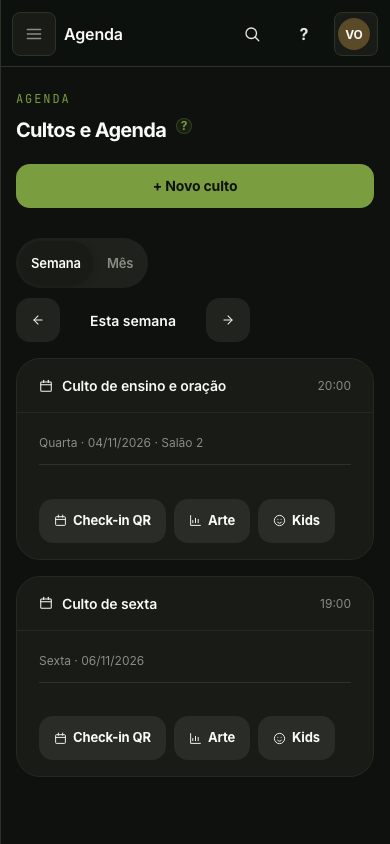
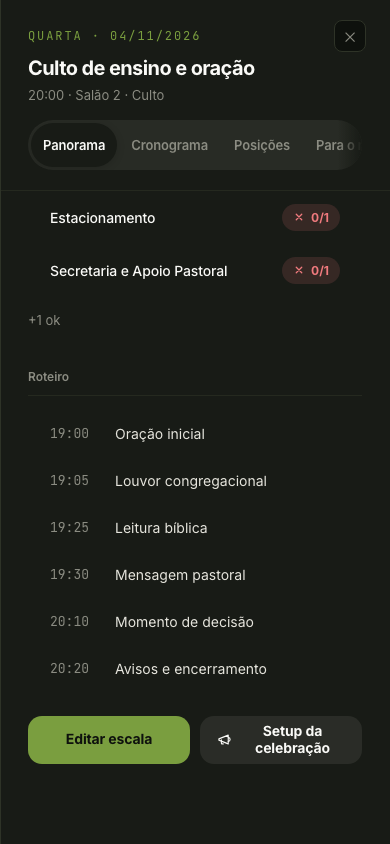
fix(E2): completa branch com fotos, Panorama, CSS e mask-image no Segmentado
- Adiciona fotos e2-*-topo/fim (1366, 820, 390) e atualiza existentes
- Panorama.tsx e panorama.css incluídos no versionamento
- .gitignore atualizado para excluir scripts temporários de captura
- Segmentado rolável usa mask-image em vez de ::after absoluto; esfumado
  não cobre mais o texto da última aba ao chegar no fim da rolagem
- Densidade do Panorama em 390 corrigida: motivo descreve a lista de
  12 times, não a aba 'Para o membro'

diff --git a/app/service/painel/telas/Panorama.tsx b/app/service/painel/telas/Panorama.tsx
@@ -37,73 +37,53 @@ export function Panorama({
 
   return (
     <>
-      <DrawerSection title={ct("Cobertura por time")}>
+      <DrawerSection title={ct("Cobertura")}>
         {incompletos.length === 0 && completosCount === 0 ? (
-          <p className="mini-sub">Nenhum time cadastrado para este {ct("culto")}.</p>
+          <p className="mini-sub">Sem times neste {ct("culto")}.</p>
         ) : (
-          <ul className="panorama-cob" aria-label={ct("Cobertura por time")}>
-            {incompletos.map((t) => {
-              const falta = t.total - t.preenchidas;
-              const rotulo = `${t.time}: ${t.preenchidas} de ${t.total} vagas preenchidas. Abrir as ${falta} vagas em aberto.`;
-              return (
-                <li key={t.timeId}>
-                  <Acao
-                    className="panorama-cob-linha mini-row"
-                    aria-label={rotulo}
-                    onClick={() => onAbrirTime(t.timeId)}
-                  >
-                    <div className="mini-main">
-                      <div className="mini-title">{t.time}</div>
-                    </div>
-                    <Selo tom="cuidado" tamanho="lista">
-                      {t.preenchidas}/{t.total}
-                    </Selo>
-                  </Acao>
-                </li>
-              );
-            })}
-            {completosCount > 0 && (
-              <li>
-                <Linha>
+          <ul className="panorama-cob" aria-label={ct("Cobertura")}>
+            {incompletos.map((t) => (
+              <li key={t.timeId}>
+                <Acao
+                  className="panorama-cob-linha mini-row"
+                  aria-label={`${t.time}: ${t.preenchidas}/${t.total}`}
+                  onClick={() => onAbrirTime(t.timeId)}
+                >
                   <div className="mini-main">
-                    <div className="mini-sub panorama-cob-ok">
-                      {completosCount} {completosCount === 1 ? "time completo" : "times completos"}
-                    </div>
+                    <div className="mini-title">{t.time}</div>
                   </div>
-                </Linha>
+                  <Selo tom="cuidado" tamanho="lista">
+                    {t.preenchidas}/{t.total}
+                  </Selo>
+                </Acao>
+              </li>
+            ))}
+            {completosCount > 0 && (
+              <li className="panorama-cob-ok-li">
+                <div className="mini-sub panorama-cob-ok">
+                  +{completosCount} {completosCount === 1 ? "ok" : "ok"}
+                </div>
               </li>
             )}
           </ul>
         )}
       </DrawerSection>
 
-      <DrawerSection title={ct("Roteiro do {culto}")}>
+      <DrawerSection title={ct("Roteiro")}>
         {schedule.length === 0 ? (
-          <p className="mini-sub">Sem cronograma ainda.</p>
+          <p className="mini-sub">Sem etapas.</p>
         ) : (
-          <ul className="panorama-crono" aria-label={ct("Roteiro do {culto}")}>
-            {schedule.map((step) => {
-              const timeNome = ministryName(step.ministry_id ?? null);
-              return (
-                <li key={step.id}>
-                  <Linha>
-                    <div className="mini-main">
-                      <div className="mini-title">
-                        <span className="panorama-crono-hora">{step.time ?? "--:--"}</span>
-                        <span className="panorama-crono-item">{step.item || ct("Etapa sem nome")}</span>
-                      </div>
-                      <div className="mini-sub">
-                        {joinDot(
-                          step.duration_min ? `${step.duration_min} min` : null,
-                          timeNome,
-                          step.notes ?? null,
-                        )}
-                      </div>
-                    </div>
-                  </Linha>
-                </li>
-              );
-            })}
+          <ul className="panorama-crono" aria-label={ct("Roteiro")}>
+            {schedule.map((step) => (
+              <li key={step.id}>
+                <Linha>
+                  <span className="panorama-crono-hora">{step.time ?? "--:--"}</span>
+                  <div className="mini-main">
+                    <div className="panorama-crono-item">{step.item || "—"}</div>
+                  </div>
+                </Linha>
+              </li>
+            ))}
           </ul>
         )}
       </DrawerSection>

diff --git a/evolucoes/service_app/service-app.css b/evolucoes/service_app/service-app.css
@@ -244,9 +244,8 @@ em { font-style:italic; }
 .seg { display:inline-flex; max-width:100%; overflow-x:auto; scrollbar-width:none; background:var(--graphite); border:0.5px solid var(--border-2); border-radius:calc(var(--r-ctl) + 3px); padding:3px; gap:2px; }
 .seg::-webkit-scrollbar { display:none; }
 /* Fade na ponta direita só quando rolavel (drawer do culto) */
-.seg-rolavel { position:relative; }
-.seg-rolavel::after { content:""; position:absolute; top:0; bottom:0; right:0; width:24px; background:linear-gradient(to left, var(--graphite), transparent); pointer-events:none; z-index:1; opacity:var(--seg-fade-opacity, 1); transition:opacity .2s ease; }
-.seg-rolavel.seg-no-fade::after { opacity:0; }
+.seg-rolavel { position:relative; -webkit-mask-image:linear-gradient(to right, black calc(100% - 24px), transparent); mask-image:linear-gradient(to right, black calc(100% - 24px), transparent); transition:-webkit-mask-image .2s ease, mask-image .2s ease; }
+.seg-rolavel.seg-no-fade { -webkit-mask-image:none; mask-image:none; }
 /* Drawer do culto: afasta o HelpDot dos números da cobertura (E2) */
 .drawer-body-event .help-dot-wrap { margin-left: 12px; }
 .drawer-body-event .panorama-cob-linha { padding-right: 8px; }

diff --git a/app/service/modules/cultos/manifest.ts b/app/service/modules/cultos/manifest.ts
@@ -28,7 +28,7 @@ export default defineModule({
       tamanho: "390×844",
       medido: { palavras: 90, acoes: 12, sobreposicoes: 0 },
       limite: { palavras: 80, acoes: 12, sobreposicoes: 0 },
-      motivo: "A aba 'Para o membro' mostra o roteiro completo do culto em texto corrido; cortar palavras removeria instruções de liturgia que o líder consulta no celular durante o serviço.",
+      motivo: "O Panorama lista os 12 times com cobertura parcial em linhas individuais; reduzir ocultaria vagas abertas que precisam de ação imediata antes do culto no celular.",
     },
   ],
 });

diff --git a/app/service/painel/telas/panorama.css b/app/service/painel/telas/panorama.css
@@ -42,3 +42,9 @@
   font-size: var(--fs-pn-14);
   color: var(--light);
 }
+
+/* Linha de times completos sem borda nem padding extra */
+.panorama-cob-ok-li {
+  list-style: none;
+  padding: 6px 0;
+}
